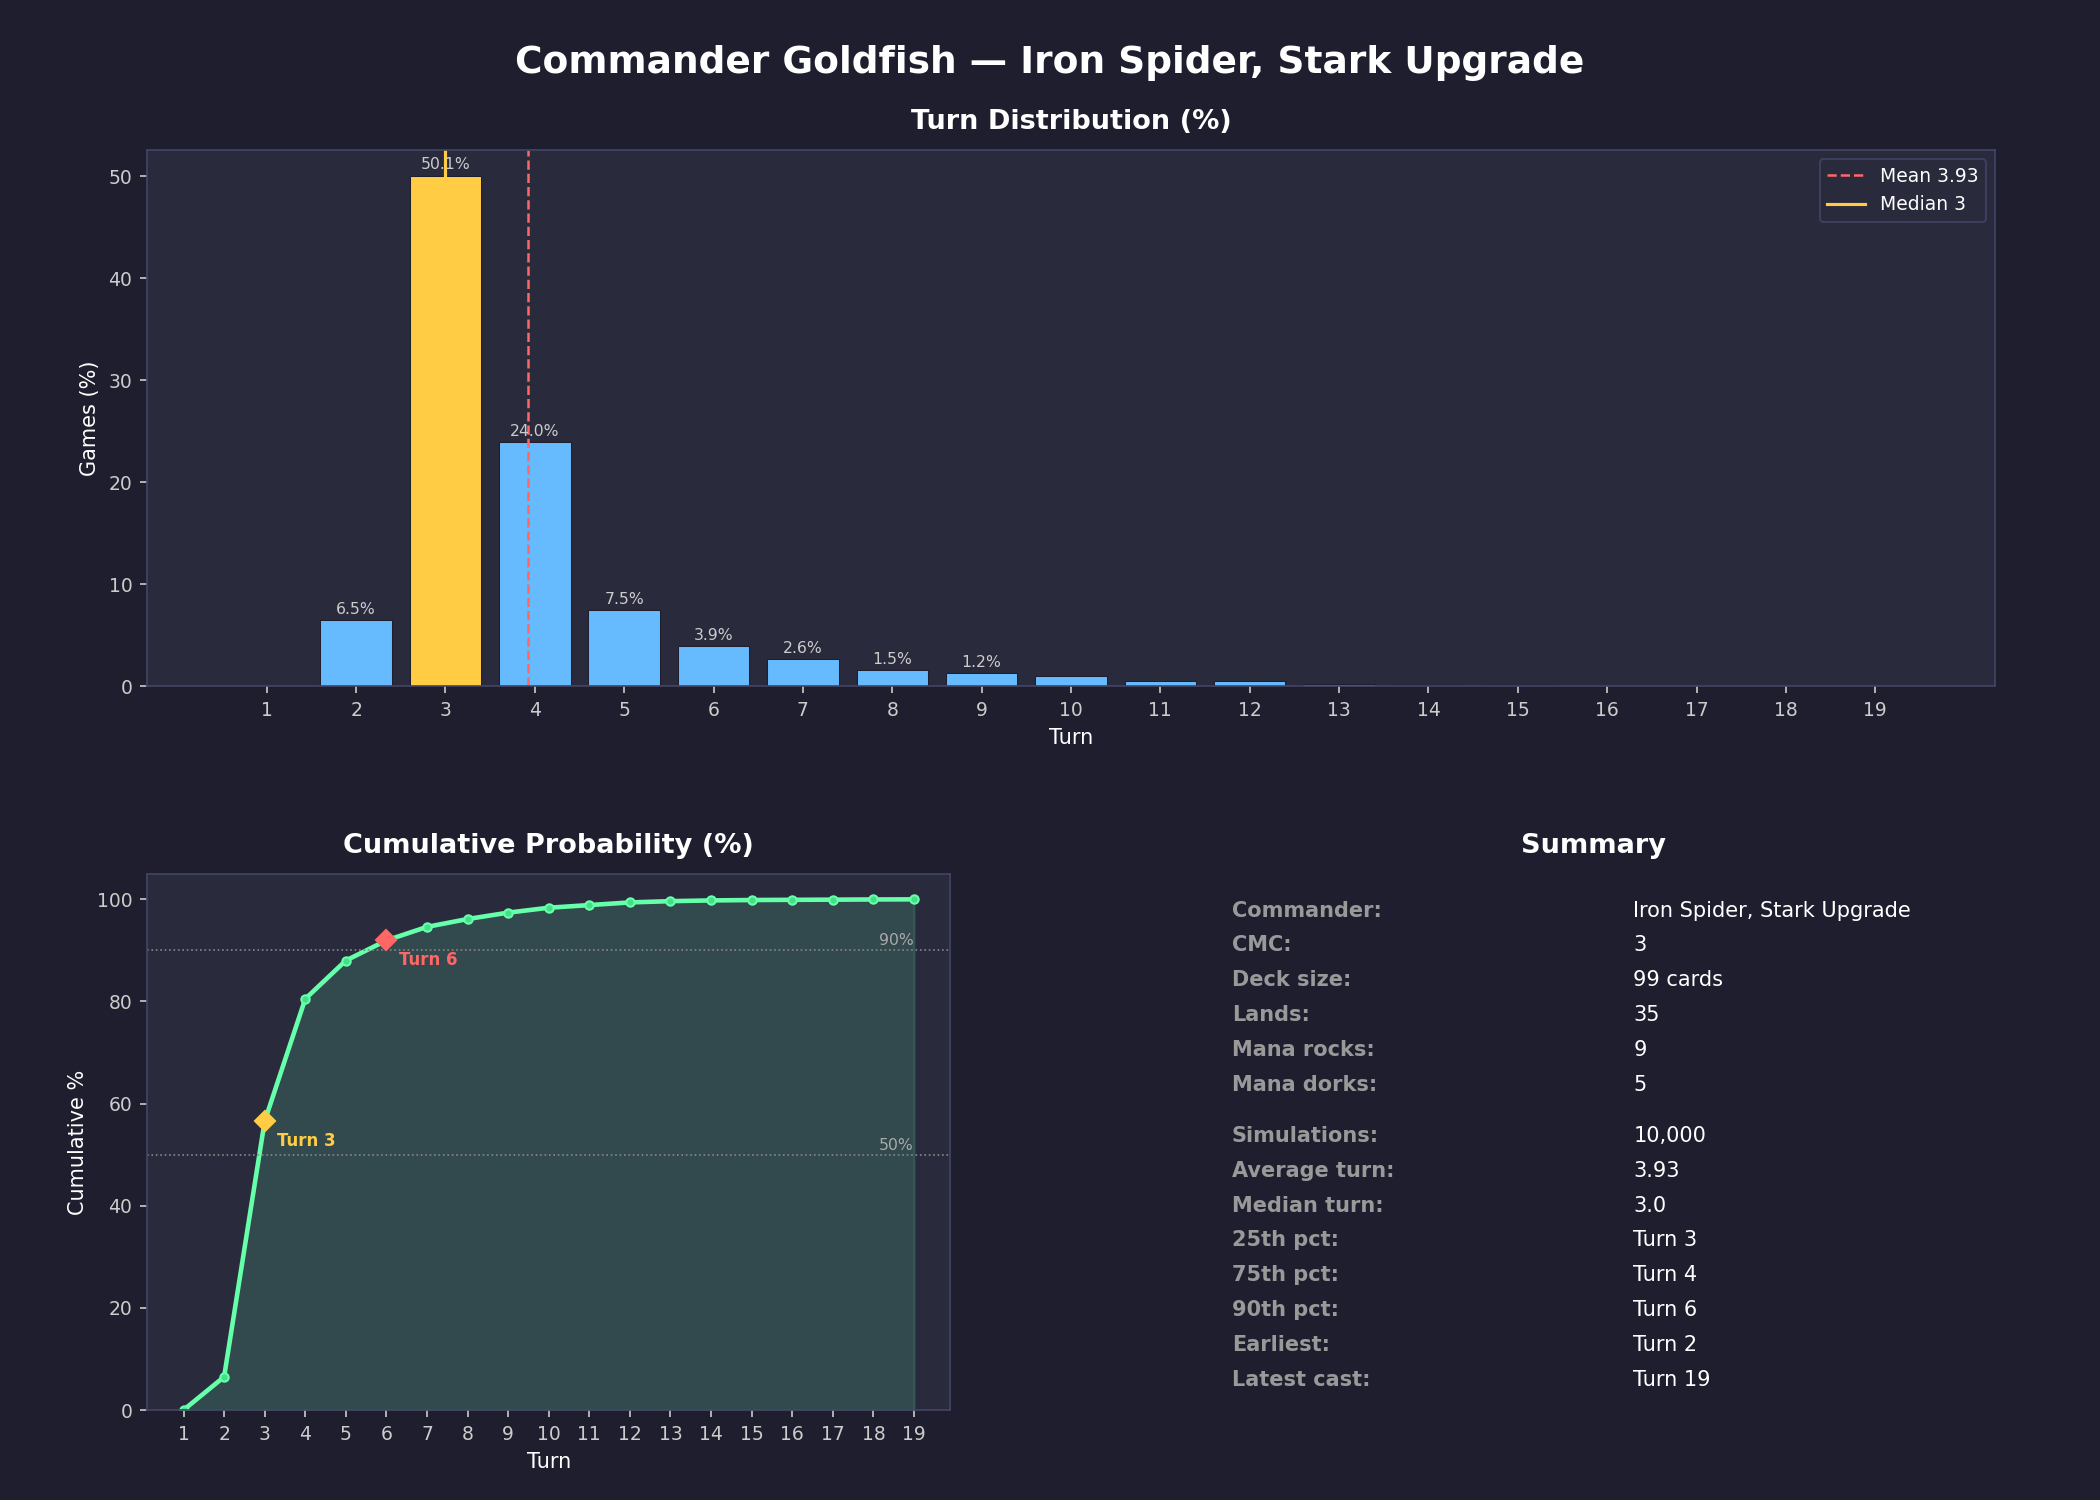
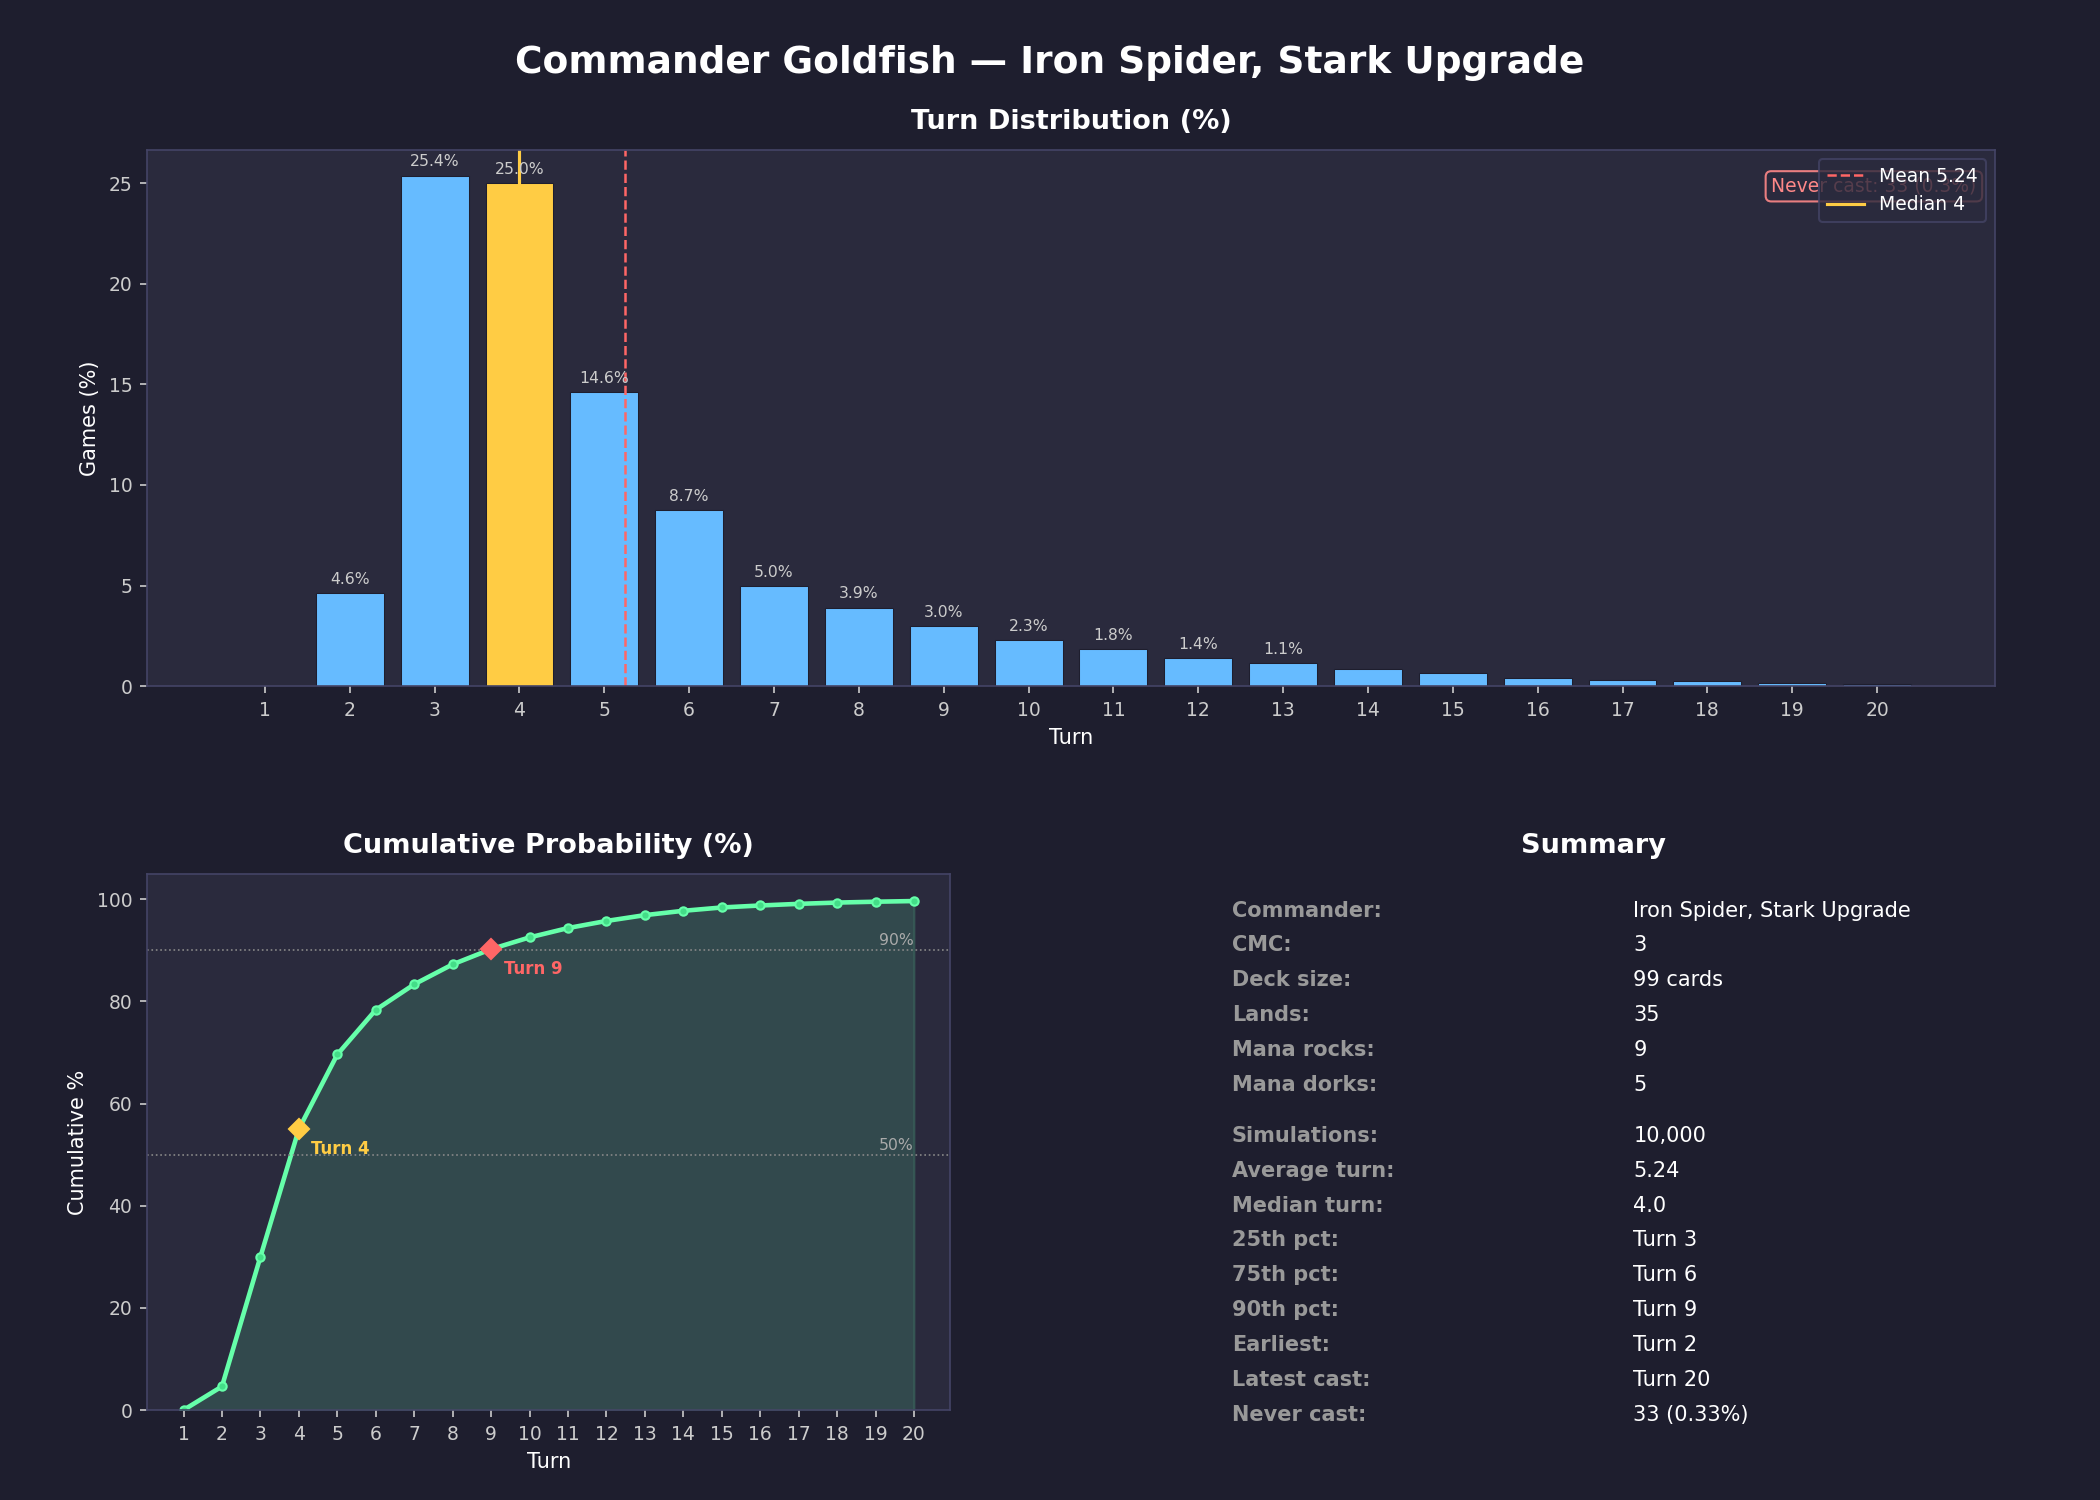
V 0.2

diff --git a/Goldfish/commander_goldfish.py b/Goldfish/commander_goldfish.py
@@ -70,7 +70,16 @@ class Card:
         self.oracle_text: str = data.get("oracle_text", "")
         self.produced_mana: List[str] = data.get("produced_mana", [])
 
-        self.is_land: bool = "Land" in self.type_line
+        self._back_type_line: str = data.get("back_type_line", "")
+        self._back_oracle_text: str = data.get("back_oracle_text", "")
+
+        # A card counts as a land if its front face is a land, OR if it is a
+        # modal DFC whose back face is a land (e.g. Fell the Profane // Fell
+        # Mire).  MDFCs can be played as either face.
+        self.is_land: bool = (
+            "Land" in self.type_line
+            or "Land" in self._back_type_line
+        )
 
         # Cards whose mana can only be spent on abilities (e.g. Cryptic
         # Trilobite) cannot help cast the commander, so exclude them.
@@ -98,17 +107,99 @@ class Card:
             and not _x_cost_zero
         )
 
+        # Land-fetching ETB: cards that search your library for a land and put
+        # it onto the battlefield when they enter.  Common examples include
+        # Solemn Simulacrum, Burnished Hart, Knight of the White Orchid,
+        # Farhaven Elf, Wood Elves, Kor Cartographer, etc.
+        # Also matches ramp sorceries like Cultivate, Kodama's Reach,
+        # Nature's Lore, Three Visits, Skyshroud Claim, etc.
+        # The pattern matches "land" as well as basic land types like
+        # Forest, Island, Mountain, Swamp, Plains.
+        _LAND_WORD = r"(?:land|forest|island|mountain|swamp|plains)"
+        _etb_fetch = re.search(
+            r"(?:enters|enter|cast)"
+            rf".*search.*(?:your |a )library.*{_LAND_WORD}.*"
+            r"(?:put|onto).*battlefield",
+            self.oracle_text, re.IGNORECASE | re.DOTALL,
+        )
+        # Ramp sorceries/instants: "Search your library for a land/Forest card, put"
+        _ramp_spell = (
+            ("Sorcery" in self.type_line or "Instant" in self.type_line)
+            and bool(re.search(
+                rf"search.*(?:your |a )library.*{_LAND_WORD}.*"
+                r"(?:put|onto).*battlefield",
+                self.oracle_text, re.IGNORECASE | re.DOTALL,
+            ))
+        )
+        # Exclude fetchlands (Evolving Wilds, Terramorphic Expanse, Fabled
+        # Passage, Prismatic Vista, etc.).  These sacrifice a land to get a
+        # land, so the net land count does not increase — they are colour
+        # fixing, not ramp.
+        _self_sacrifice_land = (
+            self.is_land
+            and bool(re.search(r"sacrifice", self.oracle_text, re.IGNORECASE))
+        )
+        self.is_land_fetcher: bool = (
+            (bool(_etb_fetch) or _ramp_spell) and not _self_sacrifice_land
+        )
+
+        # Does the fetched land enter tapped?
+        self.fetched_land_tapped: bool = (
+            self.is_land_fetcher
+            and bool(re.search(r"battlefield tapped", self.oracle_text, re.IGNORECASE))
+        )
+
+        # How many lands does it fetch?  Default 1; some cards fetch 2.
+        self.lands_fetched: int = 0
+        if self.is_land_fetcher:
+            self.lands_fetched = 1
+            # Detect "two" or "up to two" land fetches
+            if re.search(rf"(?:two|2) .*{_LAND_WORD}.*battlefield", self.oracle_text, re.IGNORECASE):
+                self.lands_fetched = 2
+
     def mana_production(self) -> int:
         """
         Estimate how much mana this permanent produces when tapped, based on
         its oracle text.  Falls back to 1 if no "Add {X}..." pattern is found.
+
+        Handles common edge cases:
+        - "Add {B} or {R}" → choice of one, returns 1 (not 2).
+        - "Add {C}{C}" → additive, returns 2.
+        - Conditional abilities ("Activate only if …") → returns 0.
+        - Activation costs ("{N}, {T}: Add …") → net production is reduced.
         """
+        # Check for conditional activation restrictions
+        if re.search(r"activate only if", self.oracle_text, re.IGNORECASE):
+            return 0
+
         add_match = re.search(r"Add (.+?)\.", self.oracle_text, re.IGNORECASE)
         if add_match:
-            symbols = re.findall(r"\{[WUBRGCwubrgc\d/]+\}", add_match.group(1))
+            add_text = add_match.group(1)
+
+            # "Add {X} or {Y}" is a choice — pick the best alternative
+            if " or " in add_text:
+                alternatives = add_text.split(" or ")
+                best = 0
+                for alt in alternatives:
+                    syms = re.findall(r"\{[WUBRGCwubrgc\d/]+\}", alt)
+                    best = max(best, len(syms))
+                return best if best > 0 else 1
+
+            symbols = re.findall(r"\{[WUBRGCwubrgc\d/]+\}", add_text)
             if symbols:
-                return len(symbols)
-        # Default: produce 1 mana (correct for most basic lands and signet-like rocks)
+                total = len(symbols)
+
+                # Subtract generic activation costs ("{N}, {T}: Add …")
+                cost_match = re.search(
+                    r"\{(\d+)\}[^.]*?(?:,\s*\{T\}|\{T\}\s*,)[^.]*?Add",
+                    self.oracle_text, re.IGNORECASE,
+                )
+                if cost_match:
+                    total -= int(cost_match.group(1))
+
+                return max(total, 0)
+
+        # Default: produce 1 mana (correct for most basic lands / signet-like rocks)
         return 1
 
     def __repr__(self) -> str:
@@ -148,14 +239,18 @@ def _fetch_from_scryfall(name: str) -> Optional[Dict]:
 
         # Double-faced cards: use front face for type/cost, card-level for cmc
         if data.get("layout") in ("transform", "modal_dfc", "reversible_card"):
-            face = data.get("card_faces", [{}])[0]
+            faces = data.get("card_faces", [{}])
+            face = faces[0]
+            back = faces[1] if len(faces) > 1 else {}
             return {
                 "name": data.get("name", name),
                 "type_line": face.get("type_line", data.get("type_line", "")),
+                "back_type_line": back.get("type_line", ""),
                 "mana_cost": face.get("mana_cost", data.get("mana_cost", "")),
                 "cmc": data.get("cmc", 0),
                 "produced_mana": data.get("produced_mana", []),
                 "oracle_text": face.get("oracle_text", data.get("oracle_text", "")),
+                "back_oracle_text": back.get("oracle_text", ""),
             }
 
         return {
@@ -193,7 +288,7 @@ def get_card(name: str, cache: Dict) -> Card:
 # ---------------------------------------------------------------------------
 
 # Sections whose cards should be excluded from the library
-_EXCLUDED_SECTIONS = {"maybeboard", "tokens & extras", "tokens"}
+_EXCLUDED_SECTIONS = {"maybeboard", "tokens & extras"}
 
 
 def parse_decklist(filepath: str) -> Tuple[str, List[str]]:
@@ -361,7 +456,9 @@ class GameState:
           3. Play a land if one is in hand (adds its production to the pool).
           4. Play mana rocks / mana dorks cheapest-first, spending mana for
              each cost and adding the card's production back to the pool.
-          5. Check whether the commander can be cast from the remaining pool.
+          5. Play land-fetcher spells / creatures if affordable. Each adds a
+             virtual land to play (tapped or untapped per the card's text).
+          6. Check whether the commander can be cast from the remaining pool.
 
         The local *mana_pool* variable accurately tracks mana available at
         every point in the turn (spent mana is subtracted, gained mana is
@@ -406,7 +503,39 @@ class GameState:
                     changed = True
                     break  # restart to re-sort candidates
 
-        # 5. Can we cast the commander?
+        # 5. Play land-fetcher spells / creatures (cheapest first)
+        #    Each one costs mana but puts a land into play from the library.
+        changed = True
+        while changed:
+            changed = False
+            fetchers = [
+                c for c in self.hand
+                if c.is_land_fetcher and c.cmc <= mana_pool
+            ]
+            if not fetchers:
+                break
+            fetchers.sort(key=lambda c: c.cmc)
+            for fetcher in fetchers:
+                if fetcher.cmc <= mana_pool:
+                    mana_pool -= fetcher.cmc
+                    self.hand.remove(fetcher)
+                    # The fetched land produces mana this turn only if untapped
+                    for _ in range(fetcher.lands_fetched):
+                        if not fetcher.fetched_land_tapped:
+                            mana_pool += 1  # untapped basic land
+                        # Either way, add a virtual land to permanents for
+                        # future turns (always produces 1)
+                        from types import SimpleNamespace
+                        virtual_land = SimpleNamespace(
+                            mana_production=lambda: 1,
+                            name="Fetched Land",
+                            is_land=True,
+                        )
+                        self.lands_in_play.append(virtual_land)  # type: ignore
+                    changed = True
+                    break
+
+        # 6. Can we cast the commander?
         if mana_pool >= self._commander_cost():
             self.commander_casts += 1
             return True
@@ -545,6 +674,7 @@ def generate_report_image(
     num_lands: int,
     num_rocks: int,
     num_dorks: int,
+    num_fetchers: int,
     output_path: str,
 ) -> None:
     """
@@ -669,6 +799,7 @@ def generate_report_image(
         ("Lands", str(num_lands)),
         ("Mana rocks", str(num_rocks)),
         ("Mana dorks", str(num_dorks)),
+        ("Land fetchers", str(num_fetchers)),
         ("", ""),
         ("Simulations", f"{total:,}"),
         ("Average turn", f"{mean:.2f}"),
@@ -763,10 +894,12 @@ def main() -> None:
     lands = [c for c in deck if c.is_land]
     rocks = [c for c in deck if c.is_mana_rock]
     dorks = [c for c in deck if c.is_mana_dork]
+    fetchers = [c for c in deck if c.is_land_fetcher]
     print(f"  Commander CMC : {commander.cmc}", file=sys.stderr)
     print(f"  Lands         : {len(lands)}", file=sys.stderr)
     print(f"  Mana rocks    : {len(rocks)}", file=sys.stderr)
     print(f"  Mana dorks    : {len(dorks)}", file=sys.stderr)
+    print(f"  Land fetchers : {len(fetchers)}", file=sys.stderr)
 
     # --- Simulate ---
     print(f"\nRunning {NUM_SIMULATIONS:,} simulations …", file=sys.stderr)
@@ -793,6 +926,7 @@ def main() -> None:
         num_lands=len(lands),
         num_rocks=len(rocks),
         num_dorks=len(dorks),
+        num_fetchers=len(fetchers),
         output_path=output_file,
     )
 
